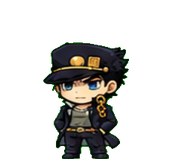
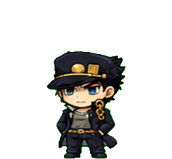
fix(character): Match Jotaro's idle scale to his other animations

Changed region(s): [[0.2326, 0.2516, 0.7558, 1.0], [0.5233, 0.9308, 0.5523, 0.956]]

diff --git a/crates/core/tests/character_packages.rs b/crates/core/tests/character_packages.rs
@@ -697,6 +697,39 @@ fn timber_wolf_rack_offset(bytes: &[u8]) -> f32 {
     (x_min + x_max) as f32 / 2.0 - racks / n
 }
 
+#[test]
+fn jotaro_idle_draws_at_the_same_standing_scale_as_his_walk() {
+    let character = load_package("jotaro-kujo").expect("Jotaro package is valid");
+    let idle = &character.animations["idle"];
+    for index in 0..idle.frames.len() {
+        let at = (index as u32 * 1000).div_ceil(idle.fps);
+        let drawn = character.draw("idle", at, 0, 1.0).expect("idle draws");
+        assert_eq!(drawn.index, index);
+        let (width, height, pixels) = drawn.mask.raw();
+        let mut rows = pixels.chunks_exact(width as usize);
+        let top = rows
+            .clone()
+            .position(|row| row.contains(&true))
+            .expect("idle is visible");
+        let bottom = rows
+            .clone()
+            .rposition(|row| row.contains(&true))
+            .expect("idle is visible");
+        let feet = rows
+            .rposition(|row| row.iter().filter(|&&solid| solid).count() >= FOOT_PIXELS)
+            .expect("idle has solid feet") as i32;
+        let shown_height = (bottom - top + 1) as i32 * character.scale as i32;
+        assert!(
+            (107..=111).contains(&shown_height),
+            "idle frame {index} stands {shown_height}px tall; Jotaro's upright walk is 108-109px"
+        );
+        assert!(
+            height - 1 - feet <= 2,
+            "idle frame {index} must keep its feet within 2px of the canvas floor"
+        );
+    }
+}
+
 /// Jump draws `fall`, and Jotaro's fall frames face left while his walk faces
 /// right. The manifest says so, and the renderer mirrors each to the travel.
 #[test]
